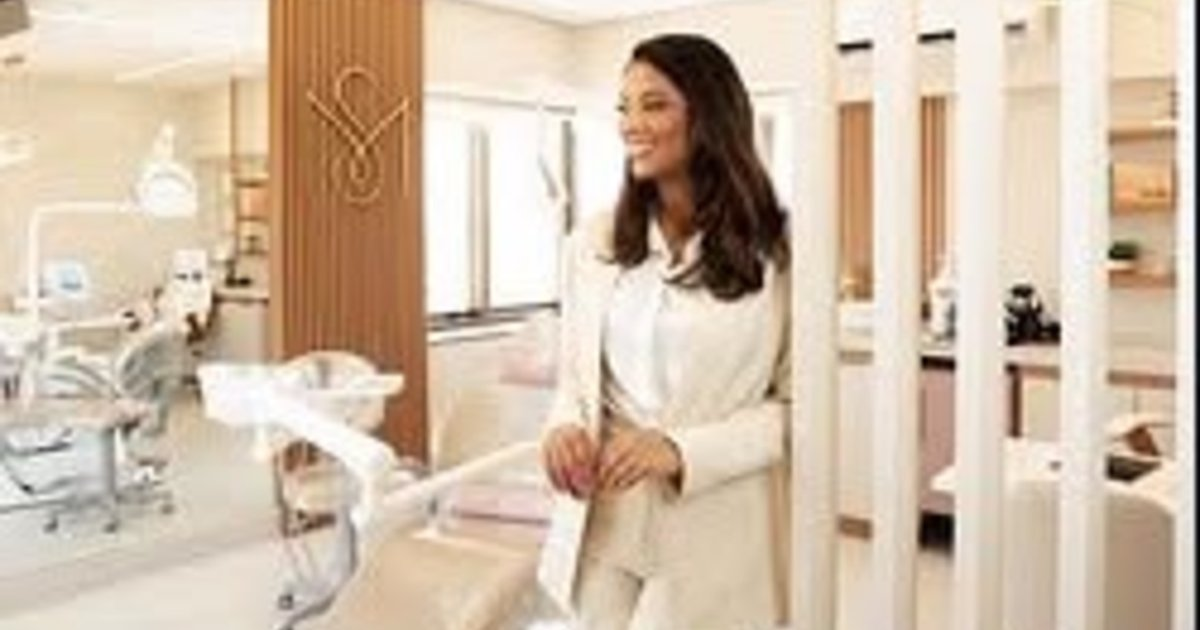
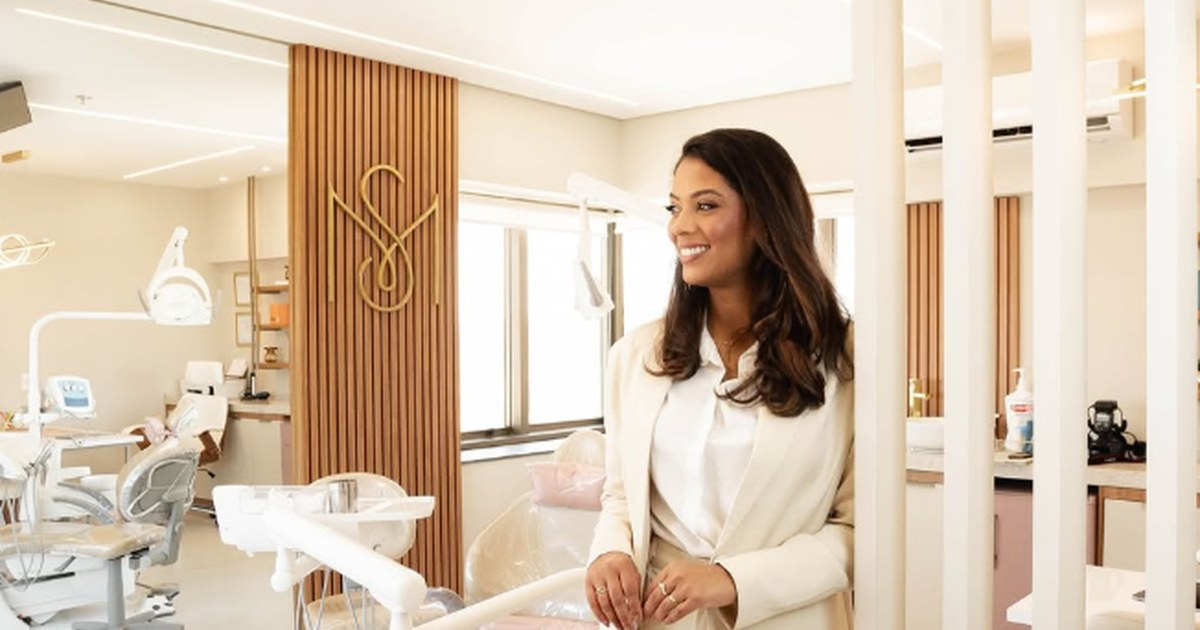
feat(miriaschoba): paleta marfim/taupe/dourado, capa do consultório, nova foto de perfil e CSP ativa

diff --git a/miriaschoba/index.html b/miriaschoba/index.html
@@ -3,13 +3,11 @@
 <head>
 <meta charset="utf-8">
 <meta name="viewport" content="width=device-width, initial-scale=1, viewport-fit=cover">
-<!-- CSP (DEPLOY): descomentar no publish. Mantido comentado durante a revisão de design.
 <meta http-equiv="Content-Security-Policy" content="default-src 'self'; img-src 'self' data: https:; style-src 'self' 'unsafe-inline' https://fonts.googleapis.com; font-src https://fonts.gstatic.com; script-src 'self' 'unsafe-inline'; connect-src 'none'; frame-ancestors 'none'; base-uri 'self'; form-action 'none'; upgrade-insecure-requests">
--->
 <meta name="referrer" content="strict-origin-when-cross-origin">
 <meta http-equiv="X-Content-Type-Options" content="nosniff">
 <meta name="robots" content="index, follow, max-image-preview:large">
-<meta name="theme-color" content="#15110e">
+<meta name="theme-color" content="#faf7f2">
 
 <title>Dra. Miriã Schoba · Odontologia Estética em Itu | Links oficiais</title>
 <meta name="description" content="Dra. Miriã Schoba, odontologia estética em Itu/SP: sorrisos naturais respeitando o que é único em você. Resina, porcelana e estética facial. Agende sua avaliação.">
@@ -33,9 +31,9 @@
 
 <style>
 :root{
-  --bg:#15110e; --bg-3:#0b0907; --ink:#ffffff; --ink-soft:#e8eaed; --ink-mute:#b8bec6;
-  --acc:#cfa88b; --acc-2:#ecd6c5; --acc-3:#80624d; --acc-rgb:207,168,139;
-  --line:rgba(255,255,255,.14);
+  --bg:#faf7f2; --bg-3:#ebe3d8; --surface:#ffffff; --ink:#2d241e; --ink-soft:#493d34; --ink-mute:#64574d;
+  --acc:#b8955a; --acc-ink:#6e5442; --acc-2:#ebd9b5; --acc-3:#4b3a2e; --acc-rgb:184,149,90;
+  --dark:#5a463a; --line:rgba(20,23,28,.12);
   --font-display:"Cormorant Garamond",Georgia,serif; --font-text:"Nunito Sans",system-ui,-apple-system,"Segoe UI",sans-serif;
   --disp-w:600; --disp-ls:0; --disp-tt:none;
   --r-card:22px; --ease:cubic-bezier(.22,.8,.24,1);
@@ -46,32 +44,32 @@ html{-webkit-text-size-adjust:100%;scroll-behavior:smooth;scrollbar-color:var(--
 body{margin:0;min-height:100dvh;overflow-x:clip;background:var(--bg-3);color:var(--ink);font:500 1rem/1.6 var(--font-text);-webkit-font-smoothing:antialiased;font-variant-numeric:lining-nums}
 img,svg{display:block;max-width:100%;height:auto}
 a{color:inherit;text-decoration:none}a:hover{color:inherit}
-:focus-visible{outline:2px solid var(--acc);outline-offset:3px;border-radius:8px}
-::selection{background:var(--acc);color:#111}
+:focus-visible{outline:2px solid var(--acc-ink);outline-offset:3px;border-radius:8px}
+::selection{background:var(--acc-2);color:var(--ink)}
 ::-webkit-scrollbar{width:10px}::-webkit-scrollbar-track{background:var(--bg-3)}
 ::-webkit-scrollbar-thumb{background:linear-gradient(180deg,var(--acc-2),var(--acc),var(--acc-3));border-radius:10px;border:2px solid var(--bg-3)}
-::-webkit-scrollbar-thumb:hover{background:var(--acc-2)}
+::-webkit-scrollbar-thumb:hover{background:var(--acc)}
 h1,h2{font-family:var(--font-display);font-weight:var(--disp-w);letter-spacing:var(--disp-ls);text-transform:var(--disp-tt);margin:0;text-wrap:balance}
 p{margin:0;text-wrap:pretty}
 .sr-only{position:absolute;width:1px;height:1px;overflow:hidden;clip:rect(0 0 0 0);white-space:nowrap}
 
-.scene{position:fixed;inset:0;z-index:-1;overflow:hidden;pointer-events:none}
-.scene img{width:100%;height:100%;object-fit:cover;filter:blur(30px) brightness(.38) saturate(.8);transform:scale(1.15)}
-.scene::before{content:"";position:absolute;inset:0;z-index:1;background:repeating-linear-gradient(90deg,rgba(var(--acc-rgb),.05) 0 1px,transparent 1px 28px)}
-.scene::after{content:"";position:absolute;inset:0;z-index:1;background:radial-gradient(ellipse 60% 55% at 50% 40%,rgba(var(--acc-rgb),.16),transparent 70%),linear-gradient(180deg,rgba(0,0,0,.2),rgba(0,0,0,.78))}
+.scene{position:fixed;inset:0;z-index:-1;overflow:hidden;pointer-events:none;background:var(--bg-3)}
+.scene img{width:100%;height:100%;object-fit:cover;filter:blur(34px) saturate(.7);opacity:.45;transform:scale(1.15)}
+.scene::before{content:"";position:absolute;inset:0;z-index:1;background:repeating-linear-gradient(90deg,rgba(var(--acc-rgb),.06) 0 1px,transparent 1px 28px)}
+.scene::after{content:"";position:absolute;inset:0;z-index:1;background:radial-gradient(ellipse 60% 55% at 50% 40%,rgba(255,255,255,.55),transparent 70%),linear-gradient(180deg,rgba(235,227,216,.5),rgba(235,227,216,.9))}
 
 .bio{position:relative;width:100%;max-width:480px;margin:0 auto;min-height:100dvh;background:var(--bg);overflow:hidden;padding-bottom:calc(2rem + env(safe-area-inset-bottom))}
 @media (min-width:560px){
-  .bio{margin:clamp(1.5rem,4vh,3rem) auto;min-height:0;border-radius:36px;border:1px solid rgba(255,255,255,.16);
-    background:color-mix(in srgb,var(--bg) 92%,transparent);-webkit-backdrop-filter:blur(24px);backdrop-filter:blur(24px);
-    box-shadow:0 60px 120px -40px rgba(0,0,0,.9),inset 0 1px 0 rgba(255,255,255,.14)}
+  .bio{margin:clamp(1.5rem,4vh,3rem) auto;min-height:0;border-radius:36px;border:1px solid rgba(var(--acc-rgb),.28);
+    background:color-mix(in srgb,var(--bg) 96%,transparent);-webkit-backdrop-filter:blur(24px);backdrop-filter:blur(24px);
+    box-shadow:0 60px 120px -50px rgba(70,52,40,.45),0 0 0 1px rgba(255,255,255,.7) inset}
 }
 
-.cover{position:relative;height:var(--cover);overflow:hidden;background:var(--bg-3)}
-.cover__bg{width:100%;height:100%;object-fit:cover;object-position:50% 40%;transform:scale(1.04)}
-.cover::after{content:"";position:absolute;inset:0;background:linear-gradient(180deg,rgba(0,0,0,.25) 0%,rgba(0,0,0,.1) 45%,var(--bg) 100%)}
+.cover{position:relative;height:var(--cover);overflow:hidden;background:var(--dark)}
+.cover__bg{width:100%;height:100%;object-fit:cover;object-position:62% 45%;transform:scale(1.04)}
+.cover::after{content:"";position:absolute;inset:0;background:linear-gradient(180deg,rgba(0,0,0,.32) 0%,rgba(0,0,0,0) 38%,rgba(250,247,242,0) 62%,var(--bg) 100%)}
 .chip{position:absolute;z-index:2;transform:translateZ(0);backface-visibility:hidden;top:calc(1rem + env(safe-area-inset-top));left:var(--pad);display:inline-flex;align-items:center;gap:.45rem;padding:.45rem .85rem;border-radius:999px;font-size:.78rem;font-weight:700;letter-spacing:.04em;color:#fff;
-  background:rgba(0,0,0,.5);border:1px solid rgba(255,255,255,.22);-webkit-backdrop-filter:blur(14px);backdrop-filter:blur(14px);box-shadow:inset 0 1px 0 rgba(255,255,255,.2)}
+  background:rgba(20,23,28,.62);border:1px solid rgba(255,255,255,.25);-webkit-backdrop-filter:blur(14px);backdrop-filter:blur(14px);box-shadow:inset 0 1px 0 rgba(255,255,255,.2)}
 .chip svg{width:14px;height:14px}
 .chip,.pill{white-space:nowrap}
 .chip--r{left:auto;right:var(--pad)}
@@ -83,81 +81,81 @@ p{margin:0;text-wrap:pretty}
 @keyframes onlineRing{0%{transform:scale(1);opacity:.9}100%{transform:scale(2.4);opacity:0}}
 
 .avatar{position:absolute;z-index:3;left:var(--pad);top:calc(var(--cover) - var(--avatar) * .55);width:var(--avatar);height:var(--avatar);border-radius:50%;padding:4px;
-  background:conic-gradient(from 210deg,#ffffff,var(--acc),var(--acc-3),#ffffff);box-shadow:0 20px 40px -16px rgba(0,0,0,.9),0 0 0 6px var(--bg)}
-.avatar__in{width:100%;height:100%;border-radius:50%;overflow:hidden;background:#000;box-shadow:inset 0 1px 0 rgba(255,255,255,.15)}
+  background:conic-gradient(from 210deg,#f3e6c8,#c9a464,#6e5442,#f3e6c8);box-shadow:0 20px 36px -18px rgba(70,52,40,.6),0 0 0 6px var(--bg)}
+.avatar__in{width:100%;height:100%;border-radius:50%;overflow:hidden;background:#ebe3d8}
 .avatar__in img{width:100%;height:100%;object-fit:cover;object-position:50% 35%;transform:scale(1.06)}
-.verified{position:absolute;right:-2px;bottom:6px;width:30px;height:30px;border-radius:50%;display:grid;place-items:center;background:linear-gradient(180deg,#ffffff,#d9d9d9);border:3px solid var(--bg);box-shadow:0 6px 14px -6px rgba(0,0,0,.8)}
+.verified{position:absolute;right:-2px;bottom:6px;width:30px;height:30px;border-radius:50%;display:grid;place-items:center;color:var(--acc-2);background:var(--dark);border:3px solid var(--bg);box-shadow:0 6px 14px -6px rgba(0,0,0,.5)}
 .verified svg{width:14px;height:14px}
 
 .ident{position:relative;padding:calc(var(--avatar) * .5 + .9rem) var(--pad) 0}
-.ident h1{font-size:clamp(2.3rem,1.9rem + 1.8vw,2.9rem);line-height:1.06;color:#fff}
-.ident h1 em{font-style:italic;color:var(--acc-2)}
-.ident .role{margin-top:.45rem;color:#fff;font-size:1.02rem;font-weight:600}
+.ident h1{font-size:clamp(2.3rem,1.9rem + 1.8vw,2.9rem);line-height:1.06;color:var(--ink)}
+.ident h1 em{font-style:italic;color:var(--acc-ink)}
+.ident .role{margin-top:.45rem;color:var(--ink);font-size:1.02rem;font-weight:700}
 .ident .meta{display:flex;flex-wrap:wrap;gap:.35rem .9rem;margin-top:.7rem;font-size:.88rem;color:var(--ink-soft)}
 .ident .meta span{display:inline-flex;align-items:center;gap:.4rem}
 .ident .meta svg{width:16px;height:16px;flex:none}
 .pills{display:flex;flex-wrap:wrap;gap:.5rem;margin-top:1.1rem}
-.pill{padding:.45rem .9rem;border-radius:999px;font-size:.8rem;font-weight:700;letter-spacing:.03em;color:#fff;
-  background:linear-gradient(180deg,rgba(255,255,255,.12),rgba(255,255,255,.04));border:1px solid rgba(var(--acc-rgb),.45);box-shadow:inset 0 1px 0 rgba(255,255,255,.2),0 8px 16px -10px rgba(0,0,0,.9)}
+.pill{padding:.45rem .9rem;border-radius:999px;font-size:.8rem;font-weight:700;letter-spacing:.03em;color:var(--acc-ink);
+  background:linear-gradient(180deg,#ffffff,#f3e9da);border:1px solid rgba(var(--acc-rgb),.45);box-shadow:inset 0 1px 0 #fff,0 8px 16px -12px rgba(70,52,40,.5)}
 
 .links{display:grid;gap:.8rem;padding:1.6rem var(--pad) 0}
-.lk{position:relative;isolation:isolate;overflow:hidden;display:flex;align-items:center;gap:.95rem;min-height:76px;padding:.75rem 1rem .75rem .75rem;border-radius:var(--r-card);color:#fff;
-  background:linear-gradient(160deg,rgba(255,255,255,.11),rgba(255,255,255,.03) 50%,rgba(255,255,255,.06));border:1px solid rgba(255,255,255,.16);
-  box-shadow:inset 0 1px 0 rgba(255,255,255,.2),inset 0 -1px 0 rgba(0,0,0,.3),0 18px 34px -22px rgba(0,0,0,.95);
-  -webkit-backdrop-filter:blur(16px);backdrop-filter:blur(16px);transition:transform .45s var(--ease),border-color .45s,box-shadow .45s;-webkit-tap-highlight-color:transparent;touch-action:manipulation}
-.lk::before{content:"";position:absolute;inset:0;z-index:-1;background:linear-gradient(115deg,transparent 30%,rgba(var(--acc-rgb),.18) 48%,transparent 66%);transform:translateX(-120%);transition:transform 1s var(--ease)}
+.lk{position:relative;isolation:isolate;overflow:hidden;display:flex;align-items:center;gap:.95rem;min-height:76px;padding:.75rem 1rem .75rem .75rem;border-radius:var(--r-card);color:var(--ink);
+  background:linear-gradient(160deg,#ffffff,#fdfbf8 60%,#f6efe5);border:1px solid rgba(20,23,28,.1);
+  box-shadow:inset 0 1px 0 #fff,0 16px 30px -22px rgba(70,52,40,.55);
+  transition:transform .45s var(--ease),border-color .45s,box-shadow .45s;-webkit-tap-highlight-color:transparent;touch-action:manipulation}
+.lk::before{content:"";position:absolute;inset:0;z-index:-1;background:linear-gradient(115deg,transparent 30%,rgba(var(--acc-rgb),.14) 48%,transparent 66%);transform:translateX(-120%);transition:transform 1s var(--ease)}
 .lk:hover::before{transform:translateX(120%)}
-@media (hover:hover) and (pointer:fine){.lk:hover{transform:translateY(-3px);border-color:rgba(var(--acc-rgb),.65);box-shadow:inset 0 1px 0 rgba(255,255,255,.25),0 26px 44px -22px rgba(0,0,0,.95)}}
+@media (hover:hover) and (pointer:fine){.lk:hover{transform:translateY(-3px);border-color:rgba(var(--acc-rgb),.6);box-shadow:inset 0 1px 0 #fff,0 24px 40px -22px rgba(70,52,40,.6)}}
 .lk:active{transform:scale(.98)}
 .lk__ico{width:52px;height:52px;flex:none;display:grid;place-items:center;border-radius:16px;
-  background:linear-gradient(150deg,rgba(var(--acc-rgb),.2),rgba(var(--acc-rgb),.04));border:1px solid rgba(var(--acc-rgb),.38);box-shadow:inset 0 1px 0 rgba(255,255,255,.3),inset 0 -6px 12px rgba(0,0,0,.28)}
+  background:linear-gradient(150deg,#fcf6ec,#f0e3cd);border:1px solid rgba(var(--acc-rgb),.4);box-shadow:inset 0 1px 0 #fff}
 .lk__ico svg{width:28px;height:28px}
 .lk__thumb{width:52px;height:52px;flex:none;border-radius:50%;overflow:hidden;border:2px solid var(--acc);padding:2px;background:var(--bg)}
 .lk__thumb img{width:100%;height:100%;object-fit:cover;border-radius:50%;object-position:50% 35%}
 .lk__txt{flex:1;min-width:0}
-.lk__txt strong{display:block;font-weight:700;font-size:1rem;line-height:1.3;color:#fff}
+.lk__txt strong{display:block;font-weight:700;font-size:1rem;line-height:1.3;color:var(--ink)}
 .lk__txt small{display:block;font-size:.85rem;line-height:1.35;color:var(--ink-mute);margin-top:.15rem}
-.lk__go{width:34px;height:34px;flex:none;border-radius:50%;display:grid;place-items:center;border:1px solid rgba(255,255,255,.2);color:#fff;transition:transform .45s var(--ease),background .45s}
+.lk__go{width:34px;height:34px;flex:none;border-radius:50%;display:grid;place-items:center;border:1px solid rgba(var(--acc-rgb),.45);color:var(--acc-ink);transition:transform .45s var(--ease),background .45s}
 .lk__go svg{width:15px;height:15px}
-.lk:hover .lk__go{transform:translateX(3px);background:rgba(var(--acc-rgb),.2)}
+.lk:hover .lk__go{transform:translateX(3px);background:rgba(var(--acc-rgb),.14)}
 
-.lk--main{min-height:84px;color:#0b0b0b;background:linear-gradient(180deg,#ffffff 0%,#f3f3f3 55%,#dcdcdc 100%);border:1px solid rgba(var(--acc-rgb),.8);
-  box-shadow:inset 0 1px 0 #fff,inset 0 -2px 0 rgba(0,0,0,.14),0 22px 40px -18px rgba(255,255,255,.3),0 0 0 5px rgba(var(--acc-rgb),.18)}
-.lk--main::before{background:linear-gradient(115deg,transparent 35%,rgba(var(--acc-rgb),.45) 50%,transparent 65%);animation:sweep 3.6s var(--ease) infinite}
+.lk--main{min-height:84px;color:#fff;background:linear-gradient(180deg,#6a5446 0%,#5a463a 60%,#48382e 100%);border:1px solid rgba(var(--acc-rgb),.9);
+  box-shadow:inset 0 1px 0 rgba(255,255,255,.14),0 22px 40px -18px rgba(20,23,28,.6),0 0 0 5px rgba(var(--acc-rgb),.16)}
+.lk--main::before{background:linear-gradient(115deg,transparent 35%,rgba(255,240,215,.3) 50%,transparent 65%);animation:sweep 3.6s var(--ease) infinite}
 @keyframes sweep{0%,55%{transform:translateX(-120%)}100%{transform:translateX(120%)}}
-.lk--main .lk__ico{background:#0b0b0b;border-color:#0b0b0b;box-shadow:inset 0 1px 0 rgba(255,255,255,.2)}
-.lk--main .lk__ico svg{color:#25D366}
-.lk--main .lk__txt strong{color:#0b0b0b}
-.lk--main .lk__txt small{color:#333;display:flex;align-items:center}
-.lk--main .lk__go{border-color:rgba(0,0,0,.3);color:#0b0b0b}
+.lk--main .lk__ico{background:#fff;border-color:#fff;box-shadow:none}
+.lk--main .lk__ico svg{color:#128c4a}
+.lk--main .lk__txt strong{color:#fff}
+.lk--main .lk__txt small{color:#fff;display:flex;align-items:center}
+.lk--main .lk__go{border-color:rgba(235,217,181,.75);color:var(--acc-2)}
 
 .feature{padding:2.2rem 0 0}
 .feature__head{display:flex;align-items:end;justify-content:space-between;gap:1rem;padding:0 var(--pad) .2rem}
-.feature h2{font-size:1.65rem;line-height:1.15;color:#fff}
-.feature h2 em{font-style:italic;color:var(--acc-2)}
+.feature h2{font-size:1.65rem;line-height:1.15;color:var(--ink)}
+.feature h2 em{font-style:italic;color:var(--acc-ink)}
 .hint{font-size:.78rem;font-weight:700;color:var(--ink-soft);display:inline-flex;align-items:center;gap:.35rem;white-space:nowrap}
 .hint svg{width:18px}
 .marquee{overflow:hidden;cursor:grab;touch-action:pan-y;user-select:none;-webkit-user-select:none;-webkit-mask-image:linear-gradient(90deg,transparent,#000 7%,#000 93%,transparent);mask-image:linear-gradient(90deg,transparent,#000 7%,#000 93%,transparent)}
 .marquee.is-dragging{cursor:grabbing}
 .marquee__track{display:flex;gap:.8rem;width:max-content;padding:1rem 0 1.2rem;will-change:transform}
-.tcard{flex:none;width:210px;border-radius:var(--r-card);overflow:hidden;color:#fff;background:linear-gradient(180deg,rgba(255,255,255,.09),rgba(255,255,255,.03));border:1px solid rgba(255,255,255,.14);box-shadow:inset 0 1px 0 rgba(255,255,255,.18),0 18px 30px -20px rgba(0,0,0,.9);transition:transform .45s var(--ease),border-color .45s}
+.tcard{flex:none;width:210px;border-radius:var(--r-card);overflow:hidden;color:var(--ink);background:#fff;border:1px solid rgba(20,23,28,.1);box-shadow:0 16px 28px -20px rgba(70,52,40,.55);transition:transform .45s var(--ease),border-color .45s}
 @media (hover:hover) and (pointer:fine){.tcard:hover{transform:translateY(-4px);border-color:rgba(var(--acc-rgb),.55)}}
 .tcard:active{transform:scale(.98)}
-.tcard__img{aspect-ratio:4/3;overflow:hidden;position:relative;background:repeating-linear-gradient(135deg,rgba(255,255,255,.07) 0 10px,rgba(255,255,255,.03) 10px 20px)}
-.tcard__img::after{content:attr(data-drop);position:absolute;inset:0;display:grid;place-items:center;padding:14px;text-align:center;font:700 .74rem/1.4 var(--font-text);color:#fff;letter-spacing:.04em;text-transform:uppercase;text-wrap:balance}
+.tcard__img{aspect-ratio:4/3;overflow:hidden;position:relative;background:repeating-linear-gradient(135deg,#f0e6d6 0 10px,#fcf9f4 10px 20px)}
+.tcard__img::after{content:attr(data-drop);position:absolute;inset:0;display:grid;place-items:center;padding:14px;text-align:center;font:700 .74rem/1.4 var(--font-text);color:var(--acc-ink);letter-spacing:.04em;text-transform:uppercase;text-wrap:balance}
 .tcard p{padding:.75rem .9rem .9rem;font-size:.9rem;line-height:1.35}
-.tcard p strong{display:block;font-family:var(--font-display);font-weight:var(--disp-w);font-size:1.08rem;margin-bottom:.15rem;color:#fff}
+.tcard p strong{display:block;font-family:var(--font-display);font-weight:var(--disp-w);font-size:1.08rem;margin-bottom:.15rem;color:var(--ink)}
 .tcard p span{color:var(--ink-mute);font-size:.8rem}
 
 .quote{margin:1rem var(--pad) 0;padding:1.5rem 1.4rem;border-radius:22px;text-align:center;position:relative;overflow:hidden;
-  background:linear-gradient(160deg,rgba(255,255,255,.1),rgba(255,255,255,.02));border:1px solid rgba(var(--acc-rgb),.35);box-shadow:inset 0 1px 0 rgba(255,255,255,.2)}
-.quote p{font-family:var(--font-display);font-weight:var(--disp-w);font-size:1.5rem;line-height:1.35;color:#fff;text-transform:none;letter-spacing:0}
+  background:linear-gradient(160deg,#5a463a,#3a2d25);border:1px solid rgba(var(--acc-rgb),.6);box-shadow:inset 0 1px 0 rgba(255,255,255,.1),0 20px 36px -24px rgba(20,23,28,.6)}
+.quote p{font-family:var(--font-display);font-weight:var(--disp-w);font-size:1.3rem;line-height:1.35;color:#fff;text-transform:none;letter-spacing:0}
 .quote p em{font-style:italic;color:var(--acc-2)}
 
 .foot{padding:2rem var(--pad) 0;text-align:center;font-size:.8rem;color:var(--ink-mute)}
-.foot .mark{font-family:var(--font-display);font-weight:var(--disp-w);font-size:1.25rem;letter-spacing:.14em;text-transform:uppercase;color:#fff;margin-bottom:.2rem}
+.foot .mark{font-family:var(--font-display);font-weight:var(--disp-w);font-size:1.25rem;letter-spacing:.14em;text-transform:uppercase;color:var(--ink);margin-bottom:.2rem}
 .foot p+p{margin-top:.25rem}
-.foot a{color:var(--acc-2);text-decoration:underline;text-underline-offset:3px}.foot a:hover{color:#fff}
+.foot a{color:var(--acc-ink);text-decoration:underline;text-underline-offset:3px}.foot a:hover{color:var(--ink)}
 
 .rise{opacity:0;transform:translateY(16px);animation:rise .9s var(--ease) forwards;animation-delay:calc(var(--i,0) * 70ms + 120ms)}
 @keyframes rise{to{opacity:1;transform:none}}
@@ -167,10 +165,10 @@ p{margin:0;text-wrap:pretty}
 </head>
 <body>
 <svg width="0" height="0" style="position:absolute" aria-hidden="true" focusable="false">
-  <defs><linearGradient id="gAcc" x1="0" y1="0" x2="1" y2="1"><stop offset="0" stop-color="#ecd6c5"/><stop offset=".55" stop-color="#cfa88b"/><stop offset="1" stop-color="#80624d"/></linearGradient></defs>
+  <defs><linearGradient id="gAcc" x1="0" y1="0" x2="1" y2="1"><stop offset="0" stop-color="#c9a464"/><stop offset=".55" stop-color="#977645"/><stop offset="1" stop-color="#5a463a"/></linearGradient></defs>
   <symbol id="i-wa" viewBox="0 0 24 24"><path fill="none" stroke="currentColor" stroke-width="1.7" stroke-linejoin="round" d="M12 3.2a8.8 8.8 0 0 0-7.6 13.2L3.3 20.7l4.4-1.1A8.8 8.8 0 1 0 12 3.2Z"/><path fill="currentColor" d="M9.2 7.6c.3 0 .5 0 .7.5l.8 1.9c.1.2 0 .5-.1.7l-.6.7c-.1.1-.2.3 0 .5.4.8 1 1.5 1.7 2 .5.4 1 .7 1.6.9.2.1.4 0 .5-.1l.7-.9c.2-.2.4-.2.6-.1l1.8.9c.3.1.4.3.4.5 0 .6-.3 1.4-1 1.8-.6.3-1.4.5-2.6.1a10 10 0 0 1-5.6-5c-.5-1-.6-2 .1-3 .3-.3.6-.4 1-.4Z"/></symbol>
   <symbol id="i-arrow" viewBox="0 0 24 24"><path fill="none" stroke="currentColor" stroke-width="1.8" stroke-linecap="round" stroke-linejoin="round" d="M5 12h13m-5-5 5 5-5 5"/></symbol>
-  <symbol id="i-check" viewBox="0 0 24 24"><path fill="none" stroke="#0b0b0b" stroke-width="2.6" stroke-linecap="round" stroke-linejoin="round" d="m6 12.5 4 4 8-9"/></symbol>
+  <symbol id="i-check" viewBox="0 0 24 24"><path fill="none" stroke="currentColor" stroke-width="2.6" stroke-linecap="round" stroke-linejoin="round" d="m6 12.5 4 4 8-9"/></symbol>
   <symbol id="i-pin" viewBox="0 0 24 24"><path fill="none" stroke="url(#gAcc)" stroke-width="1.7" d="M12 21s-7-6.2-7-11.5A7 7 0 0 1 19 9.5C19 14.8 12 21 12 21Z"/><circle cx="12" cy="9.5" r="2.6" fill="none" stroke="url(#gAcc)" stroke-width="1.7"/></symbol>
   <symbol id="i-drag" viewBox="0 0 24 24"><path fill="none" stroke="currentColor" stroke-width="1.5" stroke-linecap="round" stroke-linejoin="round" d="M8 12H3m0 0 2.5-2.5M3 12l2.5 2.5M16 12h5m0 0-2.5-2.5M21 12l-2.5 2.5"/></symbol>
   <symbol id="i-map" viewBox="0 0 48 48"><path fill="none" stroke="url(#gAcc)" stroke-width="1.6" stroke-linejoin="round" d="M6 13l11-4 14 4 11-4v26l-11 4-14-4-11 4Z"/><path fill="none" stroke="url(#gAcc)" stroke-width="1.1" opacity=".6" d="M17 9v26M31 13v26"/><path fill="none" stroke="url(#gAcc)" stroke-width="1.8" d="M24 31s-6-5.2-6-9.6a6 6 0 0 1 12 0c0 4.4-6 9.6-6 9.6Z"/><circle cx="24" cy="21.5" r="2" fill="url(#gAcc)"/></symbol>
@@ -187,7 +185,7 @@ p{margin:0;text-wrap:pretty}
 
 <main class="bio">
   <header class="cover">
-    <img class="cover__bg" src="assets/cover.jpg" alt="Dra. Miriã Schoba" fetchpriority="high">
+    <img class="cover__bg" src="assets/cover.jpg" alt="Dra. Miriã Schoba no consultório odontológico" fetchpriority="high">
     <span class="chip"><svg aria-hidden="true"><use href="#i-pin"/></svg>Itu · SP</span>
     <span class="chip chip--r"><i class="online" aria-hidden="true"></i>Perfil oficial</span>
   </header>
